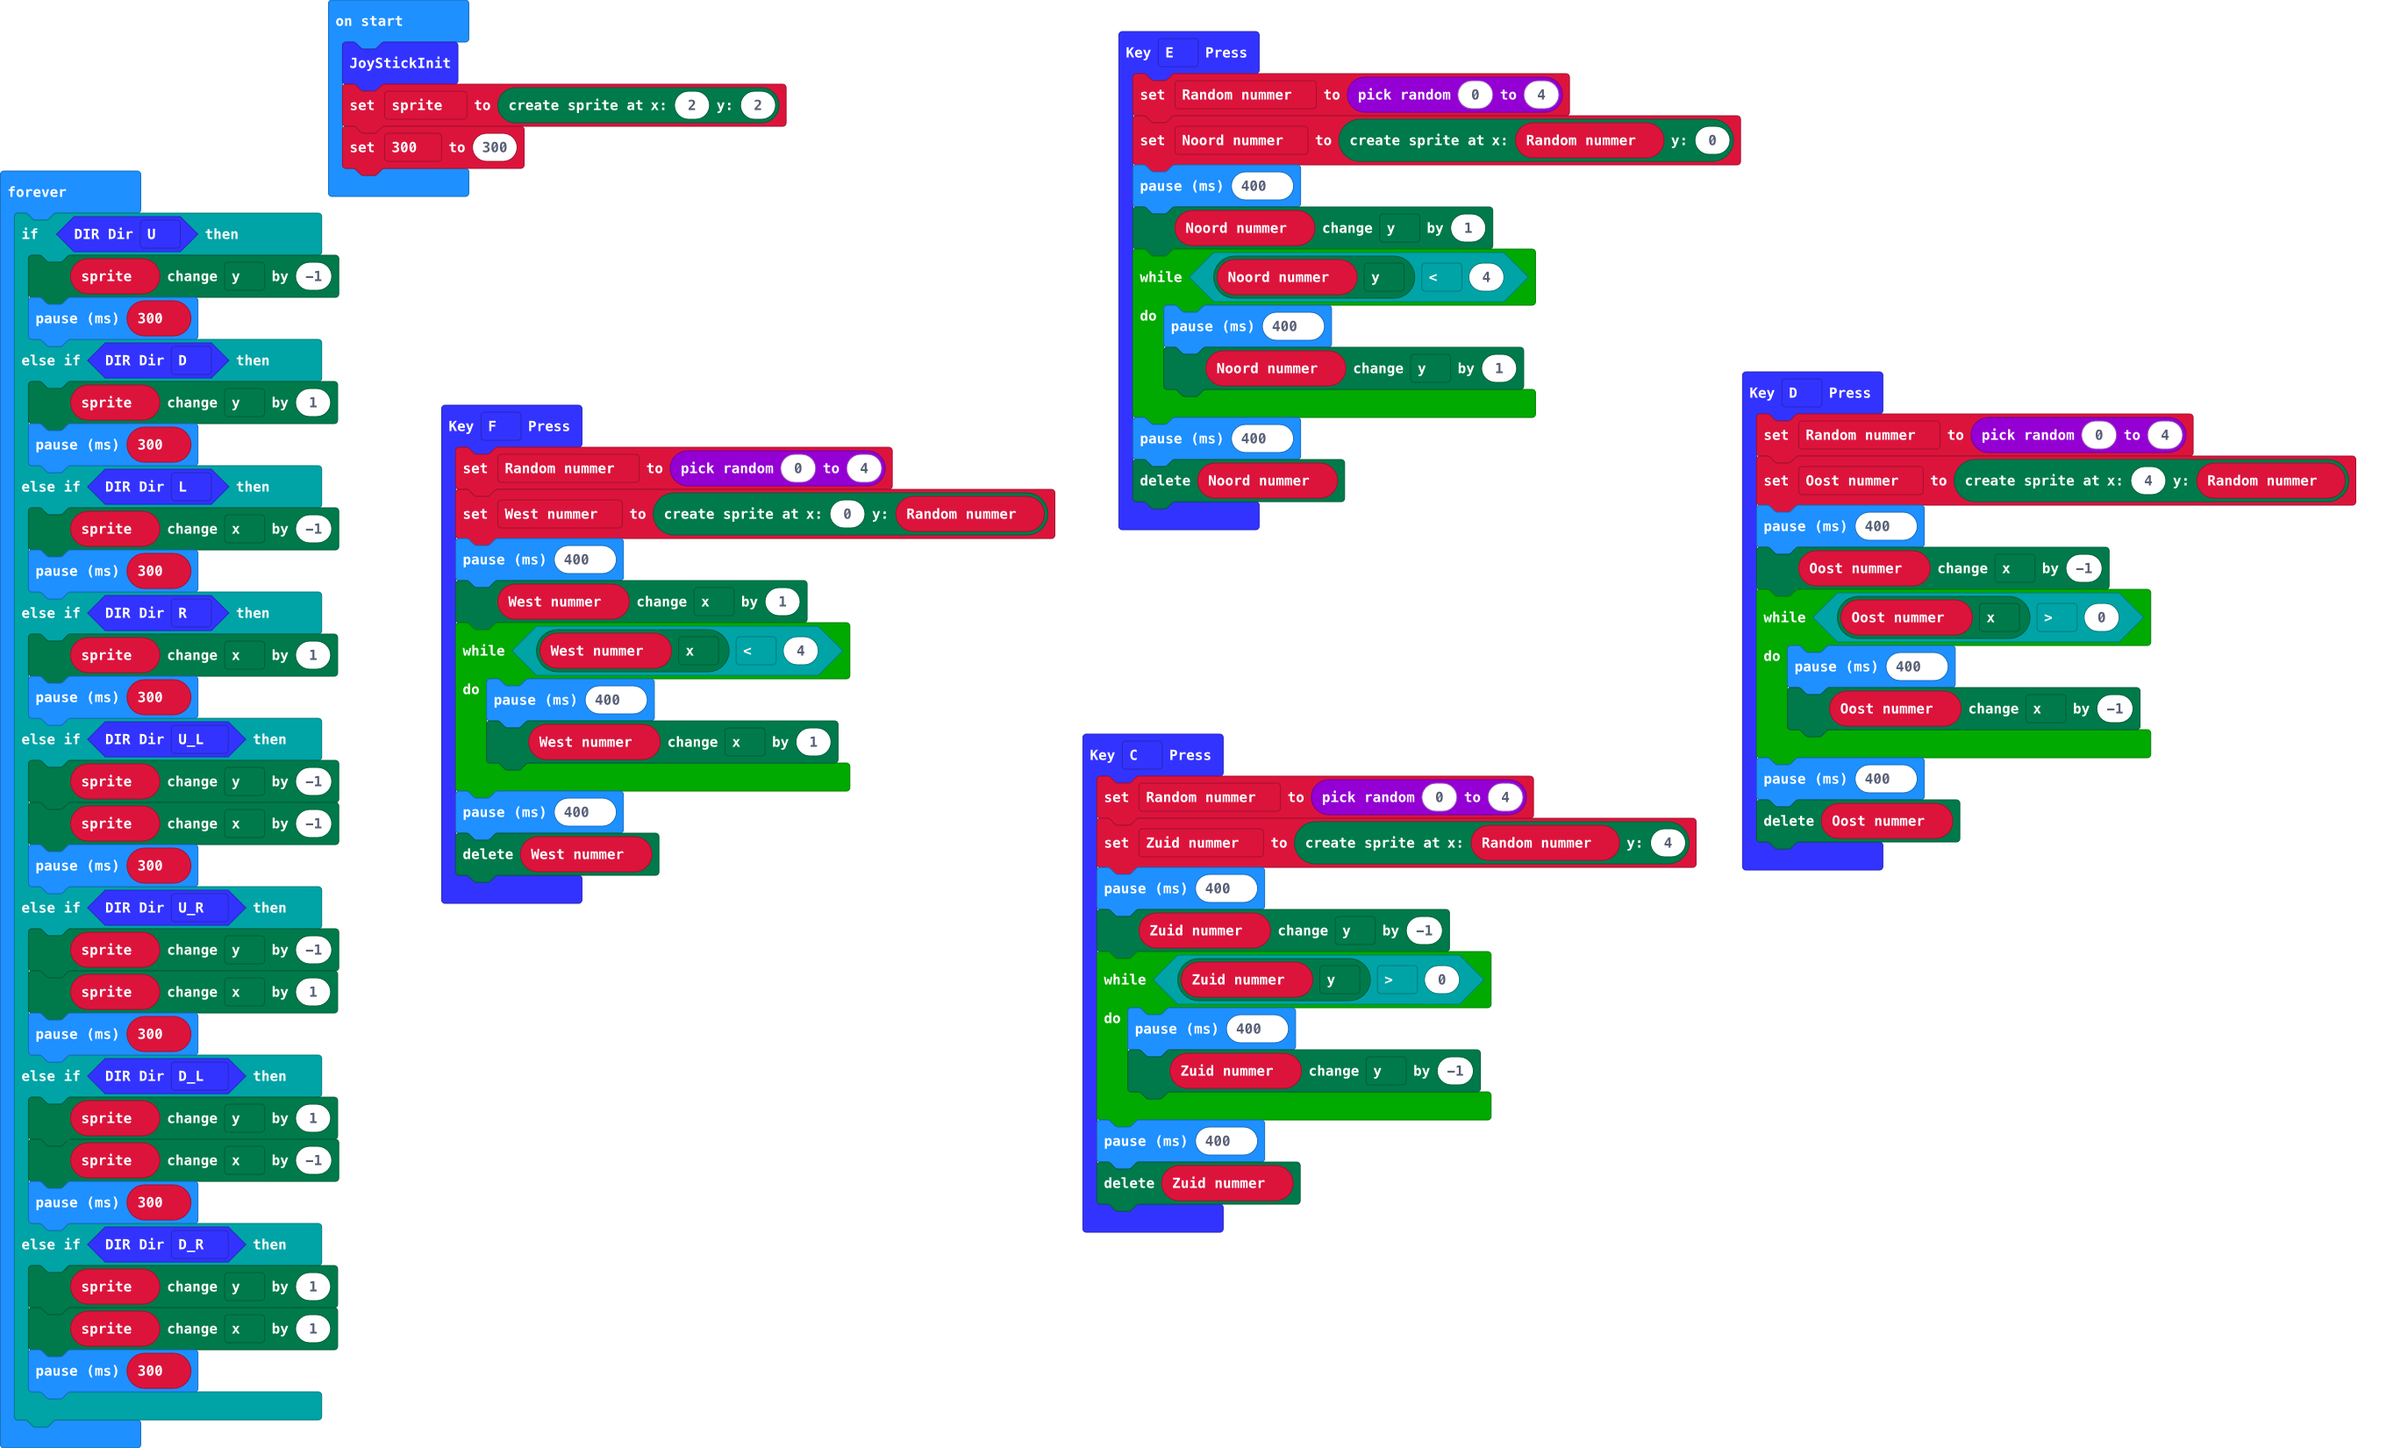
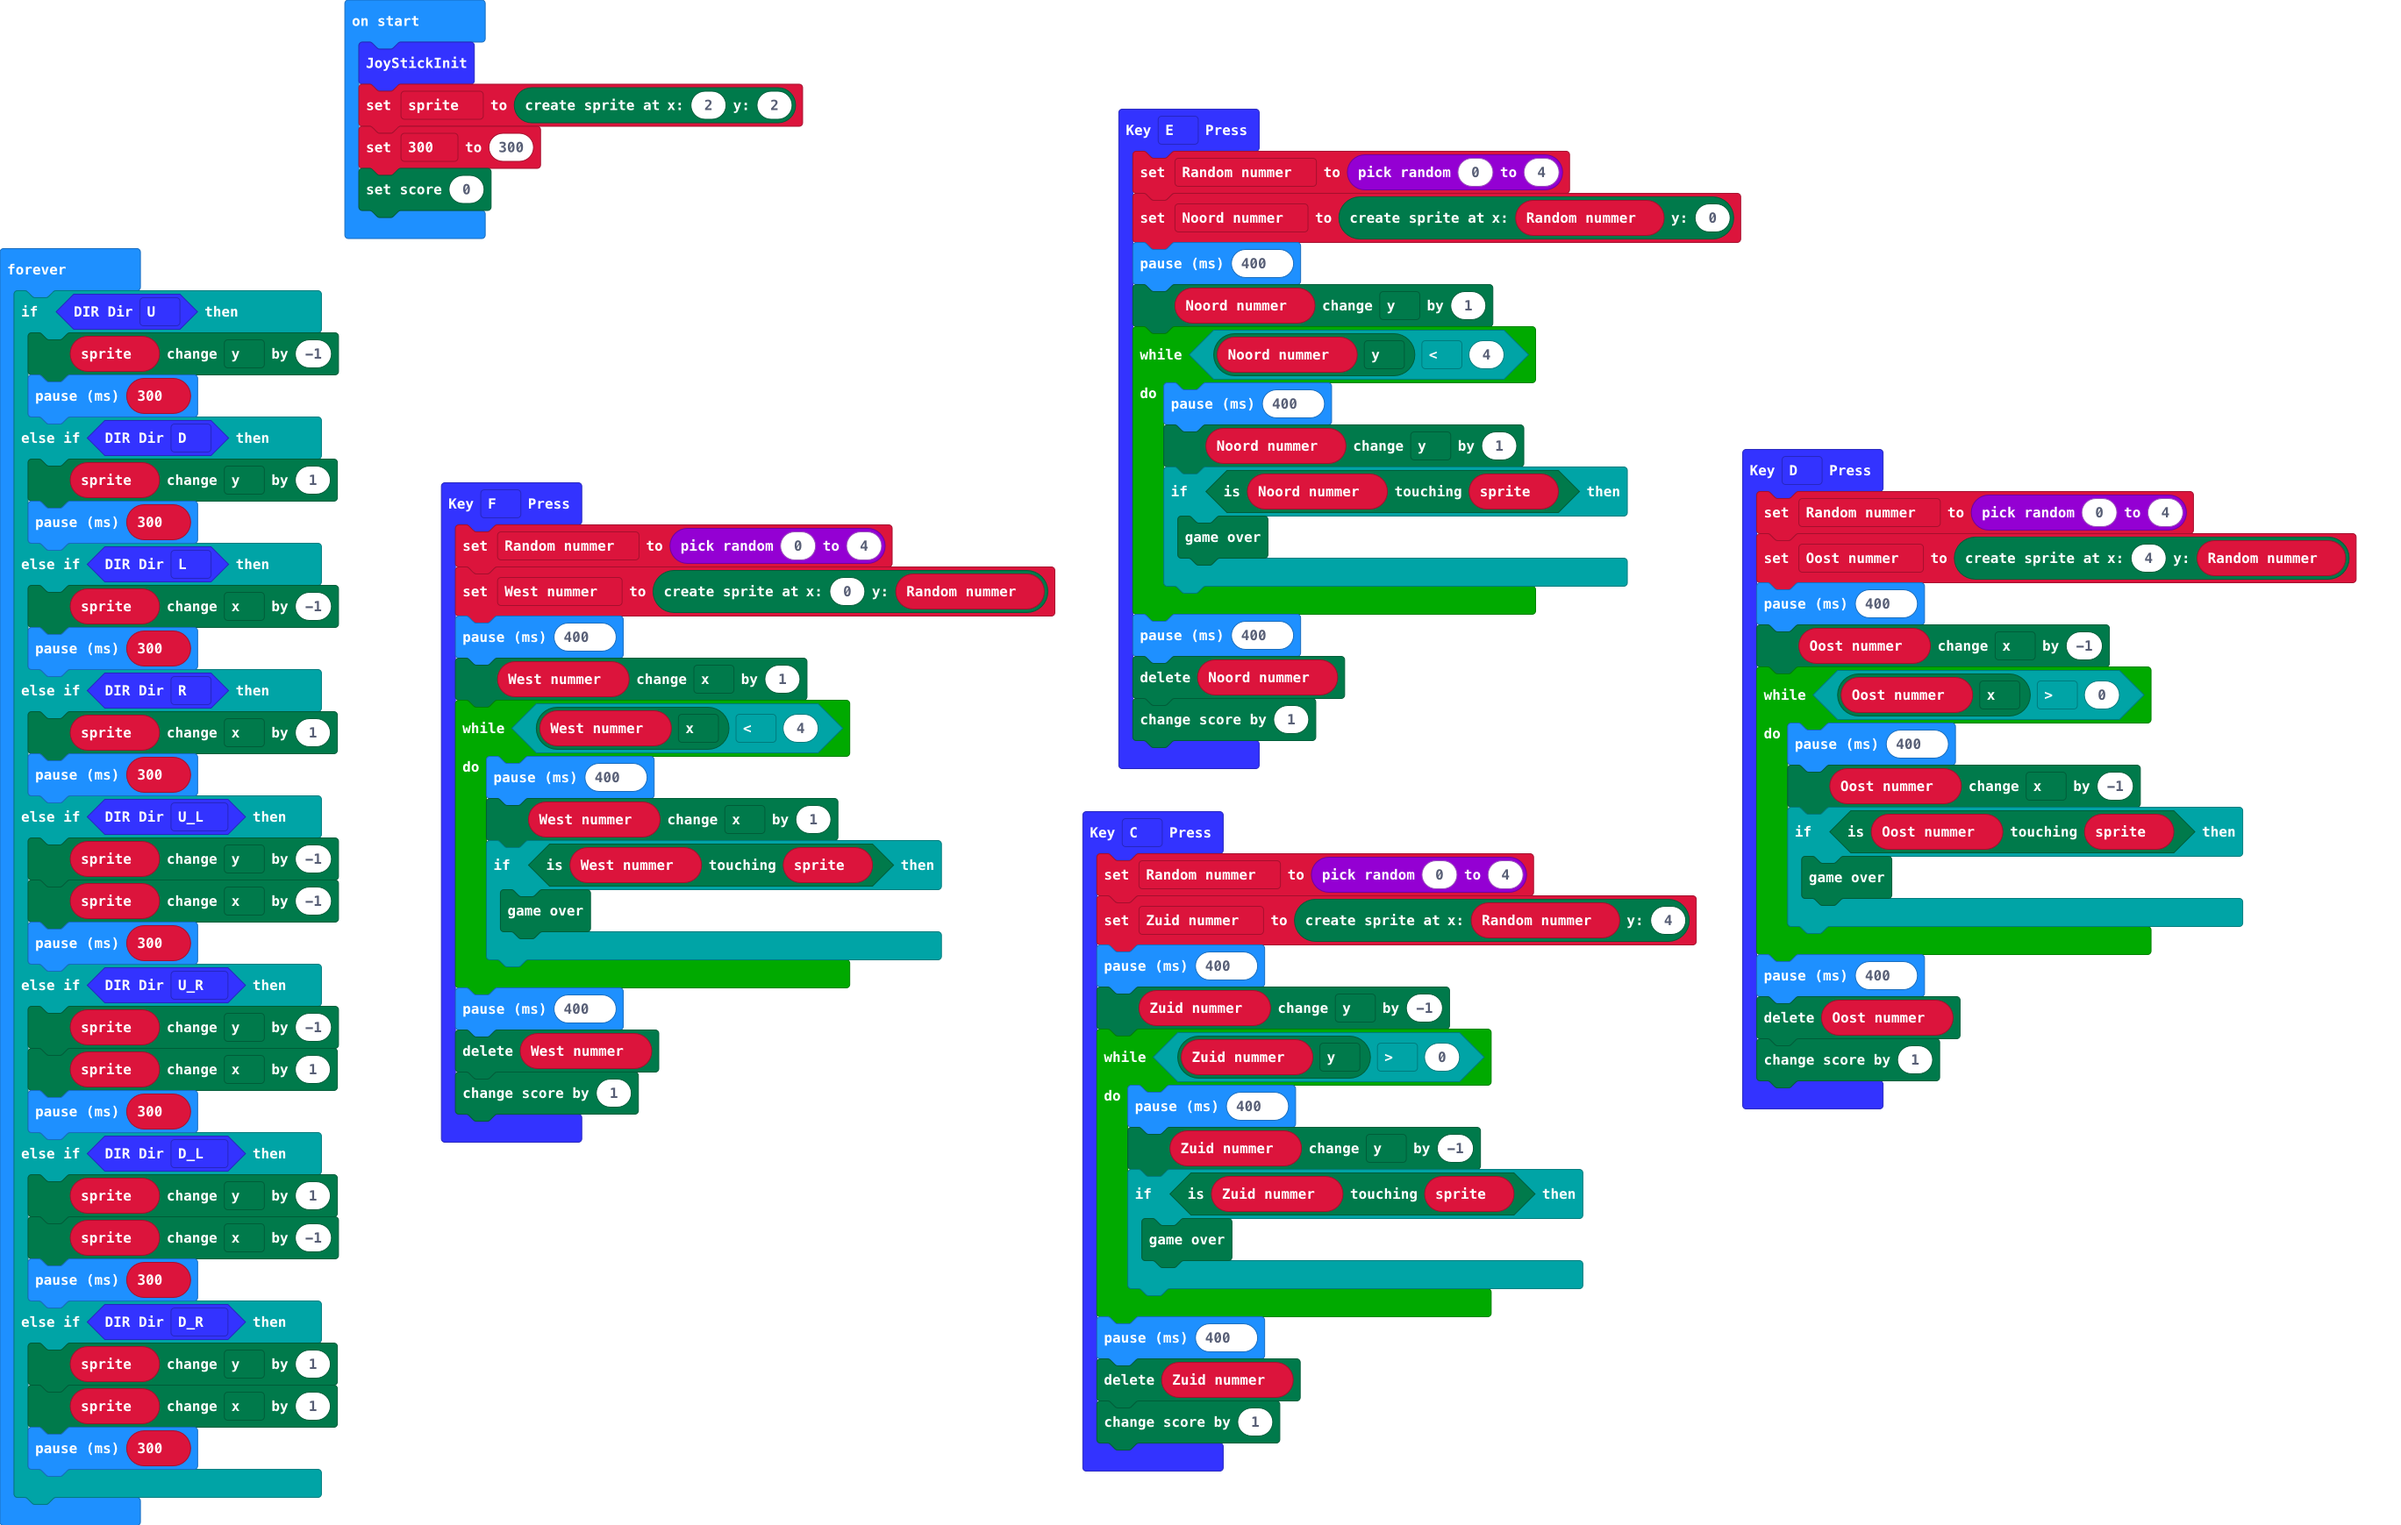
score en consequenties

diff --git a/main.ts b/main.ts
@@ -6,9 +6,13 @@ WSJoyStick.onKey(KEY.F, function () {
     while (West_nummer.get(LedSpriteProperty.X) < 4) {
         basic.pause(400)
         West_nummer.change(LedSpriteProperty.X, 1)
+        if (West_nummer.isTouching(sprite)) {
+            game.gameOver()
+        }
     }
     basic.pause(400)
     West_nummer.delete()
+    game.addScore(1)
 })
 WSJoyStick.onKey(KEY.E, function () {
     Random_nummer = randint(0, 4)
@@ -18,9 +22,13 @@ WSJoyStick.onKey(KEY.E, function () {
     while (Noord_nummer.get(LedSpriteProperty.Y) < 4) {
         basic.pause(400)
         Noord_nummer.change(LedSpriteProperty.Y, 1)
+        if (Noord_nummer.isTouching(sprite)) {
+            game.gameOver()
+        }
     }
     basic.pause(400)
     Noord_nummer.delete()
+    game.addScore(1)
 })
 WSJoyStick.onKey(KEY.D, function () {
     Random_nummer = randint(0, 4)
@@ -30,9 +38,13 @@ WSJoyStick.onKey(KEY.D, function () {
     while (Oost_nummer.get(LedSpriteProperty.X) > 0) {
         basic.pause(400)
         Oost_nummer.change(LedSpriteProperty.X, -1)
+        if (Oost_nummer.isTouching(sprite)) {
+            game.gameOver()
+        }
     }
     basic.pause(400)
     Oost_nummer.delete()
+    game.addScore(1)
 })
 WSJoyStick.onKey(KEY.C, function () {
     Random_nummer = randint(0, 4)
@@ -42,18 +54,24 @@ WSJoyStick.onKey(KEY.C, function () {
     while (Zuid_nummer.get(LedSpriteProperty.Y) > 0) {
         basic.pause(400)
         Zuid_nummer.change(LedSpriteProperty.Y, -1)
+        if (Zuid_nummer.isTouching(sprite)) {
+            game.gameOver()
+        }
     }
     basic.pause(400)
     Zuid_nummer.delete()
+    game.addScore(1)
 })
 let Zuid_nummer: game.LedSprite = null
 let Oost_nummer: game.LedSprite = null
 let Noord_nummer: game.LedSprite = null
 let West_nummer: game.LedSprite = null
 let Random_nummer = 0
+let sprite: game.LedSprite = null
 WSJoyStick.JoyStickInit()
-let sprite = game.createSprite(2, 2)
+sprite = game.createSprite(2, 2)
 let _300 = 300
+game.setScore(0)
 basic.forever(function () {
     if (WSJoyStick.Listen_Dir(DIR.U)) {
         sprite.change(LedSpriteProperty.Y, -1)
